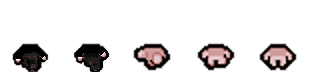
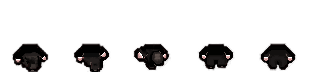
healer power

diff --git a/server/src/server/powers/Healer.java b/server/src/server/powers/Healer.java
@@ -5,12 +5,11 @@ import server.Player;
 import server.User;
 import server.bullets.BulletList;
 import server.connection.GameController;
-import server.opponents.AOpponent;
 import server.opponents.OpponentList;
 
 import java.util.concurrent.CopyOnWriteArrayList;
 
-public class AgroTaker extends APower {
+public class Healer extends APower {
     private LogicMapHandler map;
     private BulletList bulletList;
     private CopyOnWriteArrayList<User> usersInRoom;
@@ -18,7 +17,7 @@ public class AgroTaker extends APower {
     private OpponentList opponentList;
     private Player player;
 
-    public AgroTaker(GameController gameController, Player player){
+    public Healer(GameController gameController, Player player){
         this.map = gameController.logicMapHandler;
         this.bulletList = gameController.bulletList;
         this.usersInRoom = gameController.usersInRoom;
@@ -28,19 +27,19 @@ public class AgroTaker extends APower {
         this.setCooldown(2000L);
         this.setLastTimePowerWasUsed(0L);
     }
+
     @Override
     public void act(double deltaTime) {
         if(this.canAct()){
-            double distance;
-            for(AOpponent opponent : this.opponentList.getOpponents()){
-                distance = Math.sqrt((Math.abs(player.getCenterY() - opponent.getCenterY())) * (Math.abs(player.getCenterY() - opponent.getCenterY())) +
-                        (Math.abs(opponent.getCenterX() - player.getCenterX()) * (Math.abs(opponent.getCenterX() - player.getCenterX()))));
-                if(distance < 2000){
-                    opponent.setOpponentAI("Chaser");
-                    opponent.setIdOfChasedPlayer(player.getUser().getName());
-                    opponent.getOpponentAI().setAdditionalFlag(true);
-                }
-            }
+            this.usersInRoom.stream()
+                    .map(user -> user.getPlayer())
+                    .forEach(player -> {
+                        final double distance = Math.sqrt((Math.abs(this.player.getCenterY() - player.getCenterY())) * (Math.abs(this.player.getCenterY() - player.getCenterY())) +
+                                (Math.abs(player.getCenterX() - this.player.getCenterX()) * (Math.abs(player.getCenterX() - this.player.getCenterX()))));
+                        if(distance < 2000){
+                            player.setHp(player.getHp() + 5);
+                        }
+                    });
         }
     }
 

diff --git a/server/src/server/Player.java b/server/src/server/Player.java
@@ -5,11 +5,10 @@ import server.LogicMap.LogicMapHandler;
 import server.bullets.AtackFabric;
 import server.bullets.BulletList;
 import server.connection.GameController;
-import server.powers.AgroTaker;
+import server.powers.Healer;
 import server.powers.IPower;
 import server.powers.PowerFabric;
 
-import javax.jws.soap.SOAPBinding;
 import java.awt.*;
 import java.util.ArrayList;
 import java.util.Date;
@@ -68,7 +67,7 @@ public class Player {
         this.bulletList = gameController.bulletList;
         this.usersInRoom = gameController.usersInRoom;
         this.gameController = gameController;
-        this.power = new AgroTaker(gameController, this);
+        this.power = PowerFabric.createPower("AgroTaker", gameController, this);
     }
 
     public void update(CopyOnWriteArrayList<User> usersInRoom, double deltaTime) {

diff --git a/server/src/server/powers/PowerFabric.java b/server/src/server/powers/PowerFabric.java
@@ -10,6 +10,9 @@ public class PowerFabric {
             case "AgroTaker":
                 resultPower = new AgroTaker(gameController, player);
                 break;
+            case "Healer":
+                resultPower = new Healer(gameController, player);
+                break;
             default:
                 resultPower = new EmptyPower();
                 break;
